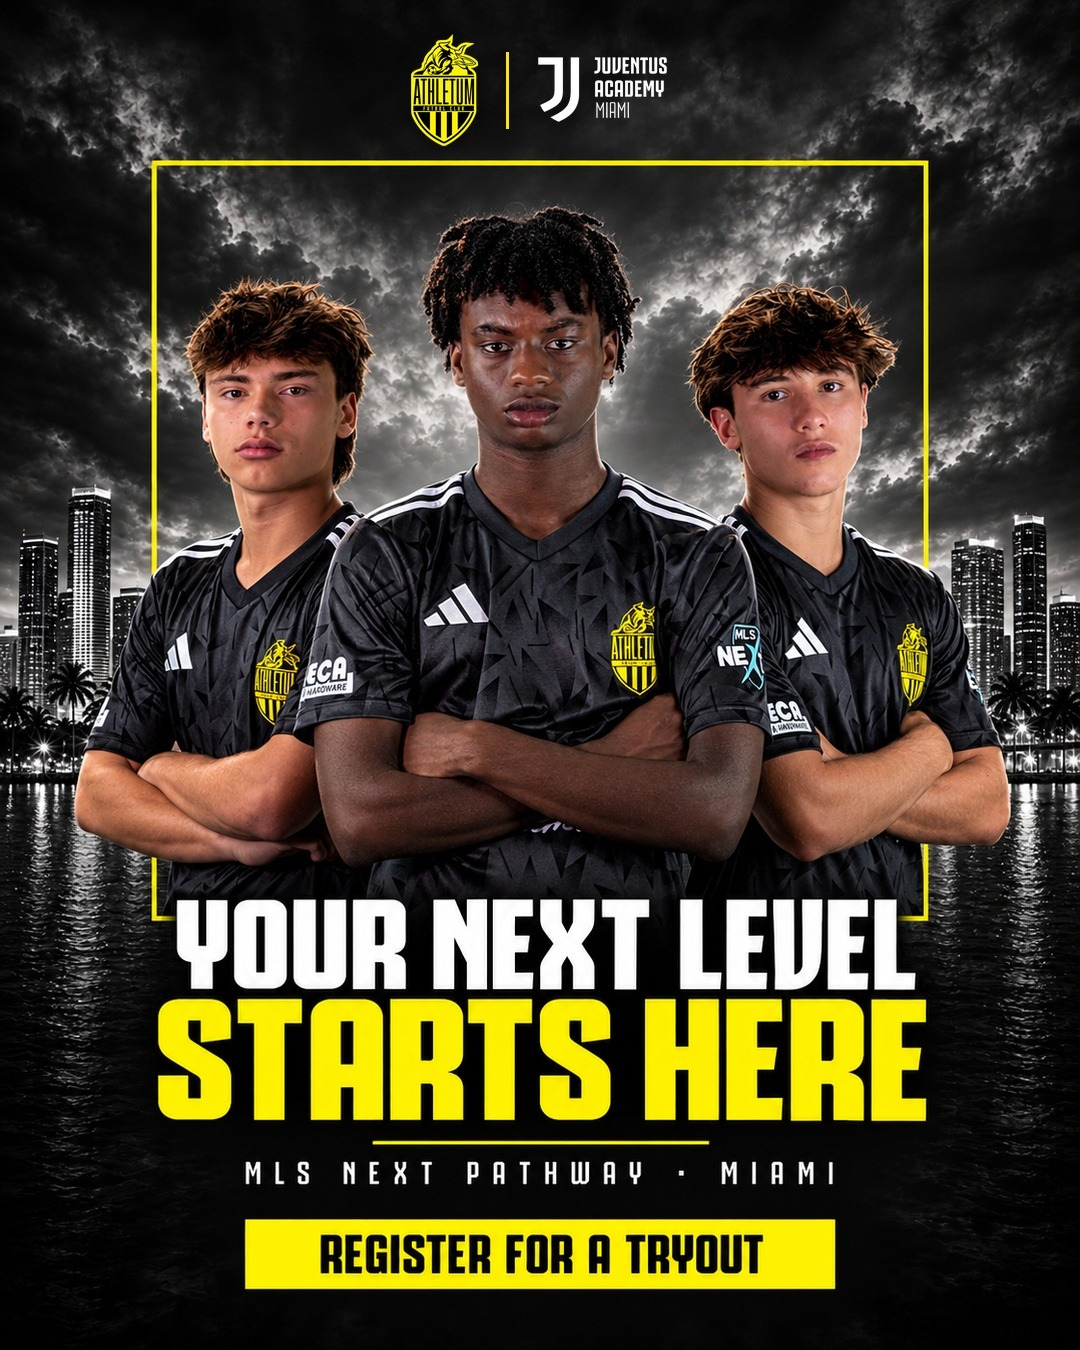
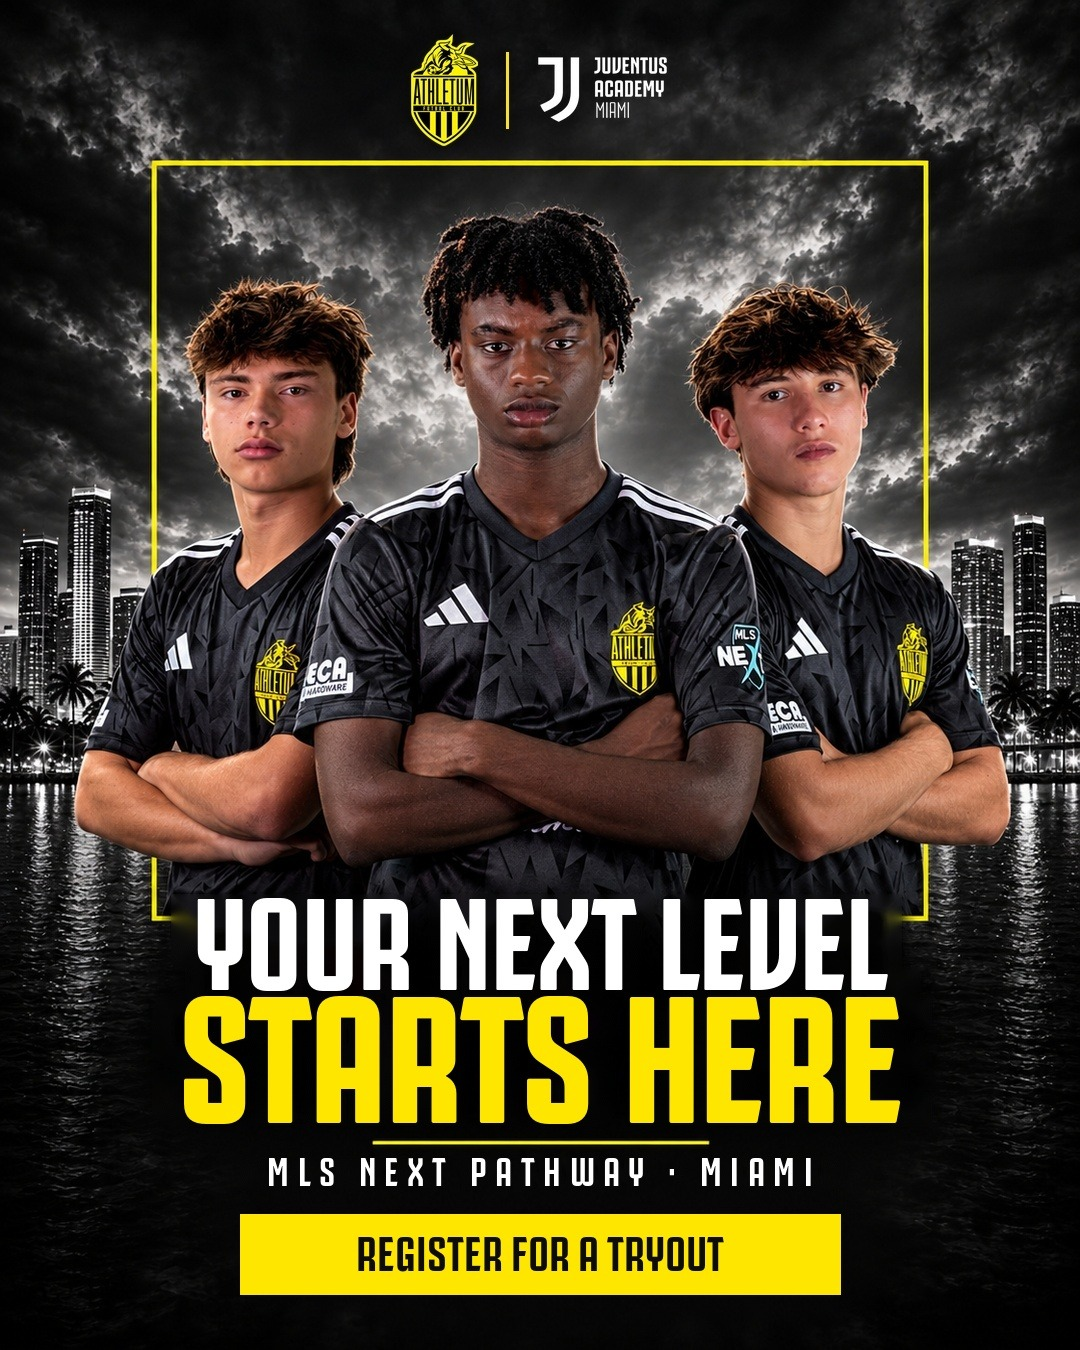
Las 4 piezas con la misma letra gruesa (titular, línea pequeña y botón)

Changed region(s): [[0.1222, 0.6533, 0.8556, 0.9644]]

diff --git a/index.html b/index.html
@@ -66,9 +66,9 @@ footer{margin-top:40px;color:var(--muted);font-size:14px;border-top:1px solid va
 <article class="ad base" data-id="S1">
   <header><span class="num">1</span><h3>STATIC-1 · HERO &quot;Your next level starts here&quot;</h3><span class="estado" data-estado>Pieza aprobada por David</span></header>
   <div class="cuerpo">
-    <div class="media"><img src="assets/S1.jpg" alt="STATIC-1 · HERO &quot;Your next level starts here&quot;" loading="lazy">
-      <a class="dl" href="assets/S1_1080.jpg" target="_blank" rel="noopener">Ver a tamaño real</a>
-      <p class="nota-pieza">Se mantiene (David, 13-10). Falta aprobar el texto.</p></div>
+    <div class="media"><img src="assets/S1.jpg?v=5" alt="STATIC-1 · HERO &quot;Your next level starts here&quot;" loading="lazy">
+      <a class="dl" href="assets/S1_1080.jpg?v=5" target="_blank" rel="noopener">Ver a tamaño real</a>
+      <p class="nota-pieza">Se mantiene (David, 13-10); textos reescritos con la misma letra gruesa de los demás anuncios. Falta aprobar el texto.</p></div>
     <div class="copy">
       <div class="lbl">Texto principal · inglés <span class="hint">· se puede editar</span></div>
       <div class="tp ed" contenteditable="true" spellcheck="true" data-campo="texto">Your next level starts here. ⚽<br><br>Athletum FC is the competitive pathway of Juventus Academy Miami: from our competitive divisions all the way to MLS NEXT, boys and girls train with coaches who know what the next level demands.<br><br>The first step is one tryout, and it&#x27;s free. Register in two minutes 👇</div>
@@ -89,8 +89,8 @@ footer{margin-top:40px;color:var(--muted);font-size:14px;border-top:1px solid va
 </article><article class="ad pend" data-id="S3">
   <header><span class="num">2</span><h3>STATIC-3 · PATHWAY &quot;One club. The whole pathway.&quot;</h3><span class="estado" data-estado>Nueva · por aprobar</span></header>
   <div class="cuerpo">
-    <div class="media"><img src="assets/S3.jpg" alt="STATIC-3 · PATHWAY &quot;One club. The whole pathway.&quot;" loading="lazy">
-      <a class="dl" href="assets/S3_1080.jpg" target="_blank" rel="noopener">Ver a tamaño real</a>
+    <div class="media"><img src="assets/S3.jpg?v=5" alt="STATIC-3 · PATHWAY &quot;One club. The whole pathway.&quot;" loading="lazy">
+      <a class="dl" href="assets/S3_1080.jpg?v=5" target="_blank" rel="noopener">Ver a tamaño real</a>
       <p class="nota-pieza">Rediseño con ChatGPT: escalera diagonal con los 6 niveles reales (estilo de corte diagonal del banco de Pinterest). Jugador real del MLS NEXT Fest.</p></div>
     <div class="copy">
       <div class="lbl">Texto principal · inglés <span class="hint">· se puede editar</span></div>
@@ -112,8 +112,8 @@ footer{margin-top:40px;color:var(--muted);font-size:14px;border-top:1px solid va
 </article><article class="ad pend" data-id="S4">
   <header><span class="num">3</span><h3>STATIC-4 · HOW A TRYOUT WORKS</h3><span class="estado" data-estado>Nueva · por aprobar</span></header>
   <div class="cuerpo">
-    <div class="media"><img src="assets/S4.jpg?v=4" alt="STATIC-4 · HOW A TRYOUT WORKS" loading="lazy">
-      <a class="dl" href="assets/S4_1080.jpg?v=4" target="_blank" rel="noopener">Ver a tamaño real</a>
+    <div class="media"><img src="assets/S4.jpg?v=5" alt="STATIC-4 · HOW A TRYOUT WORKS" loading="lazy">
+      <a class="dl" href="assets/S4_1080.jpg?v=5" target="_blank" rel="noopener">Ver a tamaño real</a>
       <p class="nota-pieza">Rediseño con ChatGPT: tres franjas tipo &quot;Matchday&quot; (el mismo formato que se aprobó en Las Vegas), un jugador real por paso.</p></div>
     <div class="copy">
       <div class="lbl">Texto principal · inglés <span class="hint">· se puede editar</span></div>
@@ -135,8 +135,8 @@ footer{margin-top:40px;color:var(--muted);font-size:14px;border-top:1px solid va
 </article><article class="ad pend" data-id="S5">
   <header><span class="num">4</span><h3>STATIC-5 · NUEVO ENFOQUE &quot;From Miami to Italy&quot;</h3><span class="estado" data-estado>Nueva · por aprobar</span></header>
   <div class="cuerpo">
-    <div class="media"><img src="assets/S5.jpg" alt="STATIC-5 · NUEVO ENFOQUE &quot;From Miami to Italy&quot;" loading="lazy">
-      <a class="dl" href="assets/S5_1080.jpg" target="_blank" rel="noopener">Ver a tamaño real</a>
+    <div class="media"><img src="assets/S5.jpg?v=5" alt="STATIC-5 · NUEVO ENFOQUE &quot;From Miami to Italy&quot;" loading="lazy">
+      <a class="dl" href="assets/S5_1080.jpg?v=5" target="_blank" rel="noopener">Ver a tamaño real</a>
       <p class="nota-pieza">Enfoque nuevo: la experiencia internacional. Collage de papel rasgado (banco de Pinterest) con fotos reales del viaje a Italia de la temporada 2025-26 (Juventus en Vinovo y Lazio).</p></div>
     <div class="copy">
       <div class="lbl">Texto principal · inglés <span class="hint">· se puede editar</span></div>
